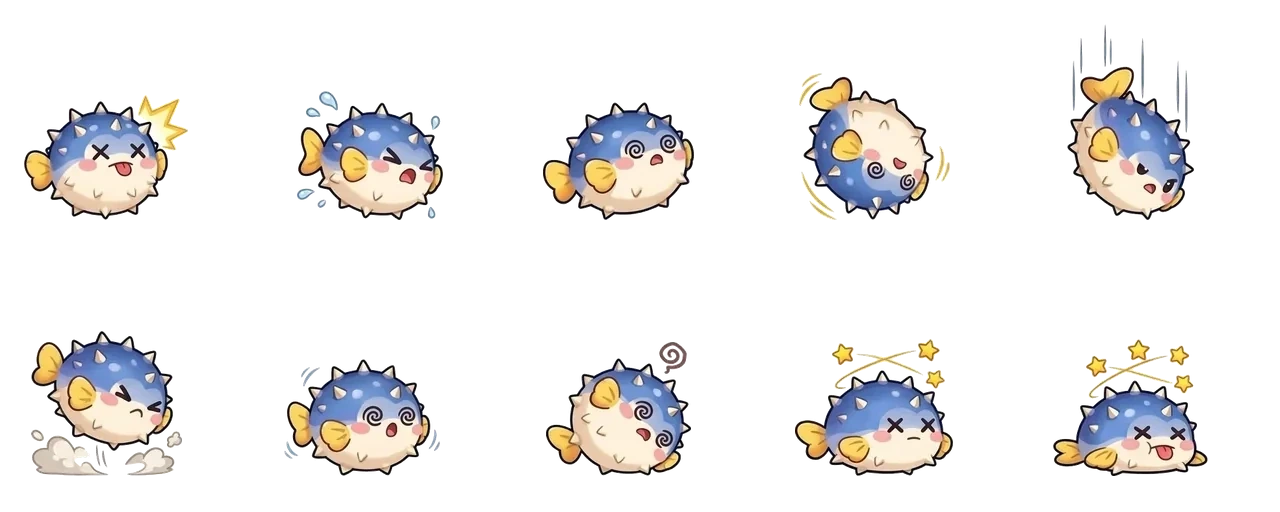
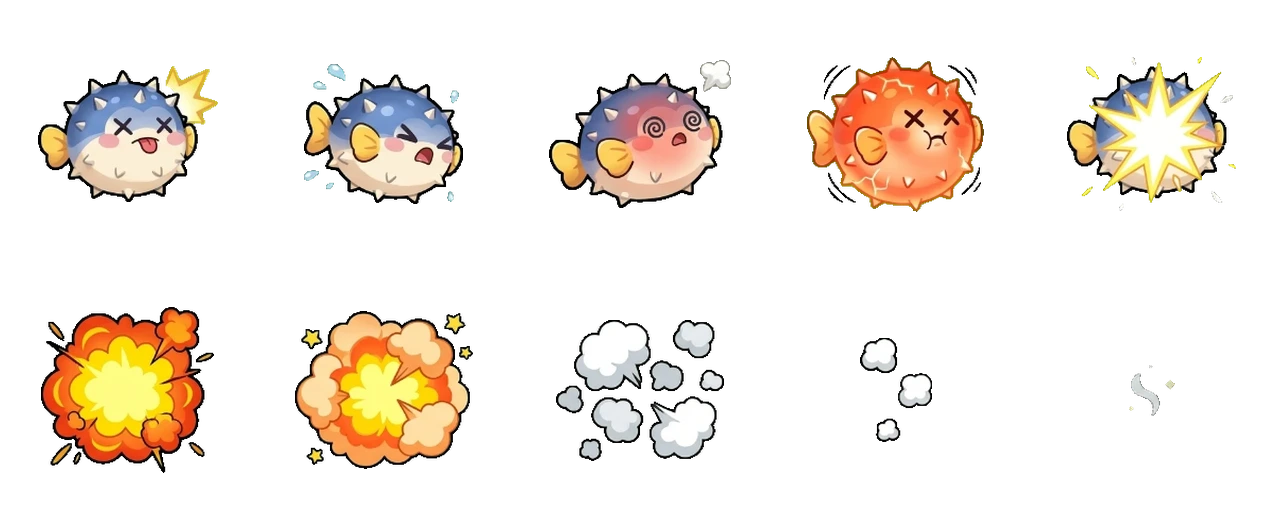
Separate Pufferfish dedicated hurt/hitstun animation from KO explosion animation (256x256 5x2)

diff --git a/game.js b/game.js
@@ -538,6 +538,7 @@
     { key: 'enemy_mushroom_ko', file: 'assets/enemy_mushroom_ko_sheet.webp', cols: 5, rows: 2, anchorX: 128, anchorY: 228 },
     { key: 'enemy_puffer_move', file: 'assets/enemy_puffer_move_sheet.webp', cols: 5, rows: 2, anchorX: 128, anchorY: 228 },
     { key: 'enemy_puffer_attack', file: 'assets/enemy_puffer_attack_sheet.webp', cols: 5, rows: 2, anchorX: 128, anchorY: 228 },
+    { key: 'enemy_puffer_hurt', file: 'assets/enemy_puffer_hurt_sheet.webp', cols: 5, rows: 2, anchorX: 128, anchorY: 228 },
     { key: 'enemy_puffer_ko', file: 'assets/enemy_puffer_ko_sheet.webp', cols: 5, rows: 2, anchorX: 128, anchorY: 228 },
     // Water-Type & Cosmic Starfish Enemy Sheets
     { key: 'enemy_star_move', file: 'assets/enemy_star_move_sheet.webp', cols: 5, rows: 2, anchorX: 128, anchorY: 228 },
@@ -658,7 +659,7 @@
       },
       createEnemyCharProfile('enemy_slime_mini', '💧 分裂小史萊姆（衍生小怪）', 'enemy_slime_mini', '迷你果凍跳躍撞擊', null, false, { enemyKey: 'slime_mini', fallbackPrefix: 'enemy_slime' }),
       createEnemyCharProfile('enemy_mushroom', '🍄 蘑菇怪（敵人）', 'enemy_mushroom', '蓄力金光 → 飛躍頭頂 → 重砸爆發孢子彈', null, false, { enemyKey: 'mushroom' }),
-      createEnemyCharProfile('enemy_puffer', '🐡 河豚怪（敵人）', 'enemy_puffer', '吸氣膨脹霸體 → 尖刺水花衝刺 → 閃電撞擊', null, false, { enemyKey: 'puffer' }),
+      createEnemyCharProfile('enemy_puffer', '🐡 河豚怪（敵人）', 'enemy_puffer', '吸氣膨脹霸體 → 尖刺水花衝刺 → 閃電撞擊', null, true, { enemyKey: 'puffer' }),
       createEnemyCharProfile('enemy_star', '⭐ 宇宙海星（一般敵人）', 'enemy_star', '高速迴旋衝撞', '寶石念力星彈', false, { enemyKey: 'star' }),
     ];
   }

diff --git a/src/game_catalog.js b/src/game_catalog.js
@@ -117,7 +117,7 @@
     },
     enemyChar('enemy_slime_mini', '💧 分裂小史萊姆（衍生小怪）', 'enemy_slime_mini', false, { enemyKey: 'slime_mini', fallbackPrefix: 'enemy_slime' }),
     enemyChar('enemy_mushroom', '🍄 蘑菇怪（敵人）', 'enemy_mushroom', false, { enemyKey: 'mushroom' }),
-    enemyChar('enemy_puffer', '🐡 河豚怪（敵人）', 'enemy_puffer', false, { enemyKey: 'puffer' }),
+    enemyChar('enemy_puffer', '🐡 河豚怪（敵人）', 'enemy_puffer', true, { enemyKey: 'puffer' }),
     enemyChar('enemy_star', '⭐ 宇宙海星（一般敵人）', 'enemy_star', false, { enemyKey: 'star' }),
   ];
 
